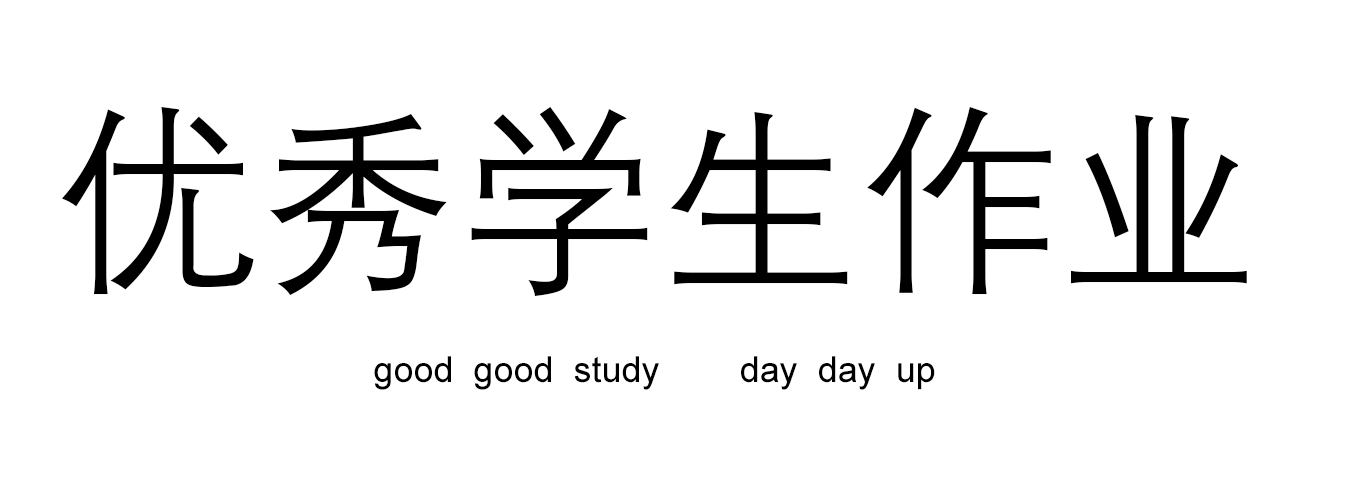
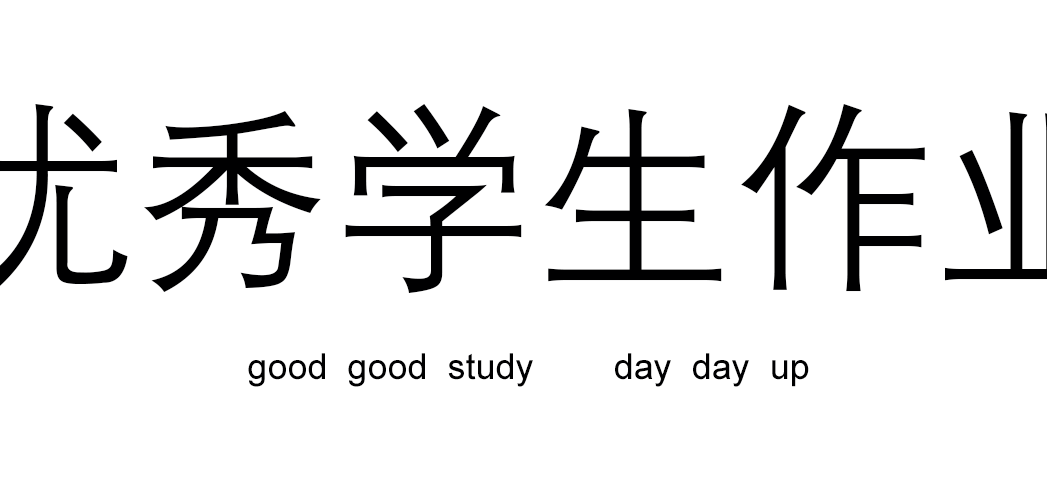
2020/11/22

Changed region(s): [[0.0, 0.2138, 1.0, 0.611], [0.2139, 0.7026, 0.5196, 0.7943], [0.5501, 0.7332, 0.7947, 0.7943]]

diff --git a/templates/first.html b/templates/first.html
@@ -39,7 +39,7 @@
             <div id="lie">
                 <li class="lie1" id="login" ><a href="{% url 'login' %}" >登录</a></li>
                 <li class="lie1"><a href="{% url 'examination' %}">考试历年卷</a></li>
-                <li class="lie1"><a href="">留言板</a></li>
+                <li class="lie1"><a href="{% url 'feedback' %}">意见反馈</a></li>
                 <li class="lie1"><a href="{% url 'material' %}">出图素材</a></li>
                 <li class="lie1"><a href="{% url 'exhibition' %}">摄影作品</a></li>
                 <li class="lie1"><a href="{% url 'academyfirst' %}">研究成果</a></li>
@@ -50,20 +50,32 @@
     <!--Welcome-->
     <div id="welcome" style="background-image: url('{% static "img/first/imge/Welcome.jpg" %}')" >
         <div>
-            <a title="点击查看全景" href="https://bj.sheencity.com/venus-project/c1191e39-d856-4245-a4a4-bc8761b2ccf6/0ea6f05b-65ed-4bb3-b27c-cd6f92345f92/tour.html?uuid=logo">
             <img src="{% static "img/first/imge/Welcome.png" %}">
              </a>
-            <a href="{% url 'video' %}" title="点击查看视频">
                 <h2>
                 FZU·AUL Studio
-            </h2>
-            </a>
+                </h2>
+                    <a title="点击查看全景" href="https://bj.sheencity.com/venus-project/c1191e39-d856-4245-a4a4-bc8761b2ccf6/0ea6f05b-65ed-4bb3-b27c-cd6f92345f92/tour.html?uuid=logo">
+                        <h5>全景</h5></a>       <a href="{% url 'video' %}" title="点击查看视频"><h5 class="l">视频</h5></a>
+                <style>
+                    h5{
+                        text-align: center;
+                        width: 100%;
+                        height: auto;
+                        color: white;
+                        background-color: rgba(0, 0, 0, 0);
+
+                    }
+                    .l{
+                        padding-bottom: 20px;
+                    }
+                </style>
 
         </div>
     </div>
 
     <!--first-->
-    <a href="{% url 'studentforth' %}">
+    <a href="{% url 'studentsecond' %}">
     <div id="first">
         <div id="img1">
             <div class="big">
@@ -81,7 +93,7 @@
     </div>
     </a>
     <!--second-->
-    <a href="{% url 'xueyuan2' %}">
+    <a href="{% url 'academyfirst' %}">
         <div id="second">
         <img src="{% static "img/first/imge/second.png" %}" id="title2">
         <img src="{% static "img/first/imge/2.png" %}" id="img2">

diff --git a/templates/feedback.html b/templates/feedback.html
@@ -3,9 +3,8 @@
 <html lang="en">
 <head>
     <meta charset="UTF-8">
-    <meta name="viewport" content="width=device-width, initial-scale=1.0">
-    <title>登录</title>
-    <link rel="stylesheet" href="{% static "css/login.css" %}" type="text/css" >
+    <title>意见反馈</title>
+    <link rel="stylesheet" href="{% static "css/feedback.css" %}" type="text/css" >
     <style>
         /*字体*/
         @font-face{
@@ -38,7 +37,7 @@
             <div id="lie">
                 <li class="lie1" id="login" ><a href="{% url 'login' %}" >登录</a></li>
                 <li class="lie1"><a href="{% url 'examination' %}">考试历年卷</a></li>
-                <li class="lie1"><a href="{% url 'feedback' %}">意见反馈</a></li>
+                <li class="lie1"><a href="">意见反馈</a></li>
                 <li class="lie1"><a href="{% url 'material' %}">出图素材</a></li>
                 <li class="lie1"><a href="{% url 'exhibition' %}">摄影作品</a></li>
                 <li class="lie1"><a href="{% url 'academyfirst' %}">研究成果</a></li>
@@ -46,24 +45,22 @@
             </div>
         </ul>
     </div>
-    <!--TITLE-->
-    </div>
-    <div id="content">
-        <form action="{% url 'logintest' %}" method="post">
-            账号
-            <input type="text" name="username" value="" class="inf">
-            <br>
-            密码
-            <input type="password" name="password" value="" class="inf">
-
-            <div class="miss"><a href="">忘记密码</a></div>
-
-            <input type="submit" value="登录" id="loginbutton">
-            <div class="tip">不登录只能看到各版块的目录部分</div>
-        </form> 
-    </div>
-    <div id="bottom">
-        <img src="{% static "img/login/img/last.png" %}">
-    </div>
+    <form>
+        <textarea class="t1"></textarea>
+        <br><br>
+        <input type="submit" value="确认" class="b1" id="sbutton">
+        <style>
+            form{
+                width: 90%;
+                margin: 0 auto;
+                text-align: center;
+            }
+            .t1{
+                width: 500px;
+                height: 200px;
+                font-size: large;
+            }
+        </style>
+    </form>
 </body>
 </html>

diff --git a/statics/css/academyfirst.css b/statics/css/academyfirst.css
@@ -23,6 +23,7 @@ ul{
     text-decoration: none;
     color: black;
     font-size: 20px;
+    font-weight: bolder;
 }
 #lie{
     width: 80%;
@@ -64,7 +65,7 @@ a:-webkit-any-link{
 }
 /*TITLE*/
 #title{
-    width: 90%;
+    width: 100%;
     height: auto;
     margin: 0 auto;
 }
@@ -77,9 +78,13 @@ a:-webkit-any-link{
     border-radius:15px;
     margin: auto 0;
 }
+.bu{
+    background-color: white;
+    margin-left: 100px;
+}
 /*search*/
 .search{
-    width: 90%;
+    width: 100%;
     height: auto;
     margin: 0 auto;
     overflow:hidden;
@@ -91,7 +96,6 @@ a:-webkit-any-link{
 }
 .search div input{
     width: auto;
-
     height: auto;
     margin: 0 50px;
 }
@@ -99,6 +103,8 @@ a:-webkit-any-link{
     width: 100%;
     height: auto;
     text-align: center;
+    padding-left: 0;
+    margin-top: 30px;
 }
 .searchul li{
     height: 100%;
@@ -113,7 +119,7 @@ a:-webkit-any-link{
 }
 /*U*/
 .u{
-    width: 90%;
+    width: 100%;
     height: auto;
     margin:0 auto;
     overflow: hidden;
@@ -161,7 +167,7 @@ a:-webkit-any-link{
 /*L*/
 /*link*/
 .linke{
-    width: 90%;
+    width: 100%;
     height: auto;
     margin: 50px auto;
     text-align: center;

diff --git a/templates/exhibition.html b/templates/exhibition.html
@@ -38,7 +38,7 @@
             <div id="lie">
                 <li class="lie1" id="login" ><a href="{% url 'login' %}" >登录</a></li>
                 <li class="lie1"><a href="{% url 'examination' %}">考试历年卷</a></li>
-                <li class="lie1"><a href="">留言板</a></li>
+                <li class="lie1"><a href="{% url 'feedback' %}">意见反馈</a></li>
                 <li class="lie1"><a href="{% url 'material' %}">出图素材</a></li>
                 <li class="lie1"><a href="{% url 'exhibition' %}">摄影作品</a></li>
                 <li class="lie1"><a href="{% url 'academyfirst' %}">研究成果</a></li>
@@ -77,7 +77,7 @@
             <img src="{% static "img/exhibition/33.jpg" %}">
             <img src="{% static "img/exhibition/32.jpg" %}">
         </div>
-        <div class="ltitle">《梦日樱花》</div>
+        <div class="ltitle">《上海上海》</div>
     </div>
     <div class="last">
         正在加载中......

diff --git a/templates/academyfirst.html b/templates/academyfirst.html
@@ -38,7 +38,7 @@
             <div id="lie">
                 <li class="lie1" id="login" ><a href="{% url 'login' %}" >登录</a></li>
                 <li class="lie1"><a href="{% url 'examination' %}">考试历年卷</a></li>
-                <li class="lie1"><a href="">留言板</a></li>
+                <li class="lie1"><a href="{% url 'feedback' %}">意见反馈</a></li>
                 <li class="lie1"><a href="{% url 'material' %}">出图素材</a></li>
                 <li class="lie1"><a href="{% url 'exhibition' %}">摄影作品</a></li>
                 <li class="lie1"><a href="{% url 'academyfirst' %}">研究成果</a></li>
@@ -54,7 +54,8 @@
     <div class="search">
         <div >
             <input type="text" class="sbutton">
-            <input type="submit" value="submit" class="sbutton">
+            <br>
+            <input type="submit" value="submit" class="sbutton bu">
         </div>
         <ul class="searchul">
             <li>

diff --git a/statics/css/feedback.css b/statics/css/feedback.css
@@ -64,48 +64,11 @@ a:-webkit-any-link{
 #login a:-webkit-any-link{
     color: red;
 }
-#content{
-    width: 80%;
-    height: auto;
-    margin: 90px auto 15px;
-}
-.miss{
-    width: 65%;
-    height: auto;
-    text-align: right;
-}
-#content a{
-    width: 100%;
-    height: auto;
-}
-form{
-    text-align: center;
-}
-.inf{
-    margin: 20px 20px;
-    padding:10px 100px;
-    border-radius:15px;
-    color: rgb(236,236,236);
-}
-#loginbutton{
+
+#sbutton{
     padding: 10px 50px;
-    background-color:rgb(195,13,36);
-    color: white;
+    background-color:rgb(236,236,236);
+    color: black;
     border: none;
     border-radius:15px;
 }
-.tip{
-    text-align: center;
-    color: rgb(176,176,176);
-}
-#bottom{
-    width: 100%;
-    height: auto;
-    margin: 0 auto;
-}
-#bottom img{
-    width: 100%;
-    height: auto;
-}
-
-

diff --git a/statics/css/first.css b/statics/css/first.css
@@ -26,6 +26,7 @@ ul{
     text-decoration: none;
     color: black;
     font-size: 20px;
+    font-weight: bolder;
 }
 #lie{
     width: 80%;
@@ -70,7 +71,7 @@ a:-webkit-any-link{
     width: 100%;
     height: auto;
     margin: 0 auto;
-    padding: 200px 0;
+    padding: 100px 0;
     overflow: hidden;
     background-image:url(../img/first/imge/touban.jpg);
     background-repeat:no-repeat;
@@ -81,7 +82,7 @@ a:-webkit-any-link{
 #welcome div{
     width: 100%;
     height: auto;
-    background-color: rgba(0, 0, 0, 0.6)
+    background-color: rgba(0, 0, 0, 0.6);
 }
 #welcome div img{
     width: 100%;
@@ -90,7 +91,7 @@ a:-webkit-any-link{
 #welcome div h2{
     text-align: center;
     color: white;
-    padding: 0 0 30px ;
+    padding: 0 0 10px ;
     margin:0 0;
 }
 /*<!--first-->*/

diff --git a/templates/examination.html b/templates/examination.html
@@ -38,7 +38,7 @@
             <div id="lie">
                 <li class="lie1" id="login" ><a href="{% url 'login' %}" >登录</a></li>
                 <li class="lie1"><a href="{% url 'examination' %}">考试历年卷</a></li>
-                <li class="lie1"><a href="">留言板</a></li>
+                <li class="lie1"><a href="{% url 'feedback' %}">意见反馈</a></li>
                 <li class="lie1"><a href="{% url 'material' %}">出图素材</a></li>
                 <li class="lie1"><a href="{% url 'exhibition' %}">摄影作品</a></li>
                 <li class="lie1"><a href="{% url 'academyfirst' %}">研究成果</a></li>

diff --git a/templates/material.html b/templates/material.html
@@ -38,7 +38,7 @@
             <div id="lie">
                 <li class="lie1" id="login" ><a href="{% url 'login' %}" >登录</a></li>
                 <li class="lie1"><a href="{% url 'examination' %}">考试历年卷</a></li>
-                <li class="lie1"><a href="">留言板</a></li>
+                <li class="lie1"><a href="{% url 'feedback' %}">意见反馈</a></li>
                 <li class="lie1"><a href="{% url 'material' %}">出图素材</a></li>
                 <li class="lie1"><a href="{% url 'exhibition' %}">摄影作品</a></li>
                 <li class="lie1"><a href="{% url 'academyfirst' %}">研究成果</a></li>

diff --git a/templates/studentforth.html b/templates/studentforth.html
@@ -38,7 +38,7 @@
             <div id="lie">
                 <li class="lie1" id="login" ><a href="{% url 'login' %}" >登录</a></li>
                 <li class="lie1"><a href="{% url 'examination' %}">考试历年卷</a></li>
-                <li class="lie1"><a href="">留言板</a></li>
+                <li class="lie1"><a href="{% url 'feedback' %}">意见反馈</a></li>
                 <li class="lie1"><a href="{% url 'material' %}">出图素材</a></li>
                 <li class="lie1"><a href="{% url 'exhibition' %}">摄影作品</a></li>
                 <li class="lie1"><a href="{% url 'academyfirst' %}">研究成果</a></li>

diff --git a/templates/studentsecond.html b/templates/studentsecond.html
@@ -39,7 +39,7 @@
             <div id="lie">
                 <li class="lie1" id="login" ><a href="{% url 'login' %}" >登录</a></li>
                 <li class="lie1"><a href="{% url 'examination' %}">考试历年卷</a></li>
-                <li class="lie1"><a href="">留言板</a></li>
+                <li class="lie1"><a href="{% url 'feedback' %}">意见反馈</a></li>
                 <li class="lie1"><a href="{% url 'material' %}">出图素材</a></li>
                 <li class="lie1"><a href="{% url 'exhibition' %}">摄影作品</a></li>
                 <li class="lie1"><a href="{% url 'academyfirst' %}">研究成果</a></li>

diff --git a/templates/studentthird.html b/templates/studentthird.html
@@ -38,7 +38,7 @@
             <div id="lie">
                 <li class="lie1" id="login" ><a href="{% url 'login' %}" >登录</a></li>
                 <li class="lie1"><a href="{% url 'examination' %}">考试历年卷</a></li>
-                <li class="lie1"><a href="">留言板</a></li>
+                <li class="lie1"><a href="{% url 'feedback' %}">意见反馈</a></li>
                 <li class="lie1"><a href="{% url 'material' %}">出图素材</a></li>
                 <li class="lie1"><a href="{% url 'exhibition' %}">摄影作品</a></li>
                 <li class="lie1"><a href="{% url 'academyfirst' %}">研究成果</a></li>
